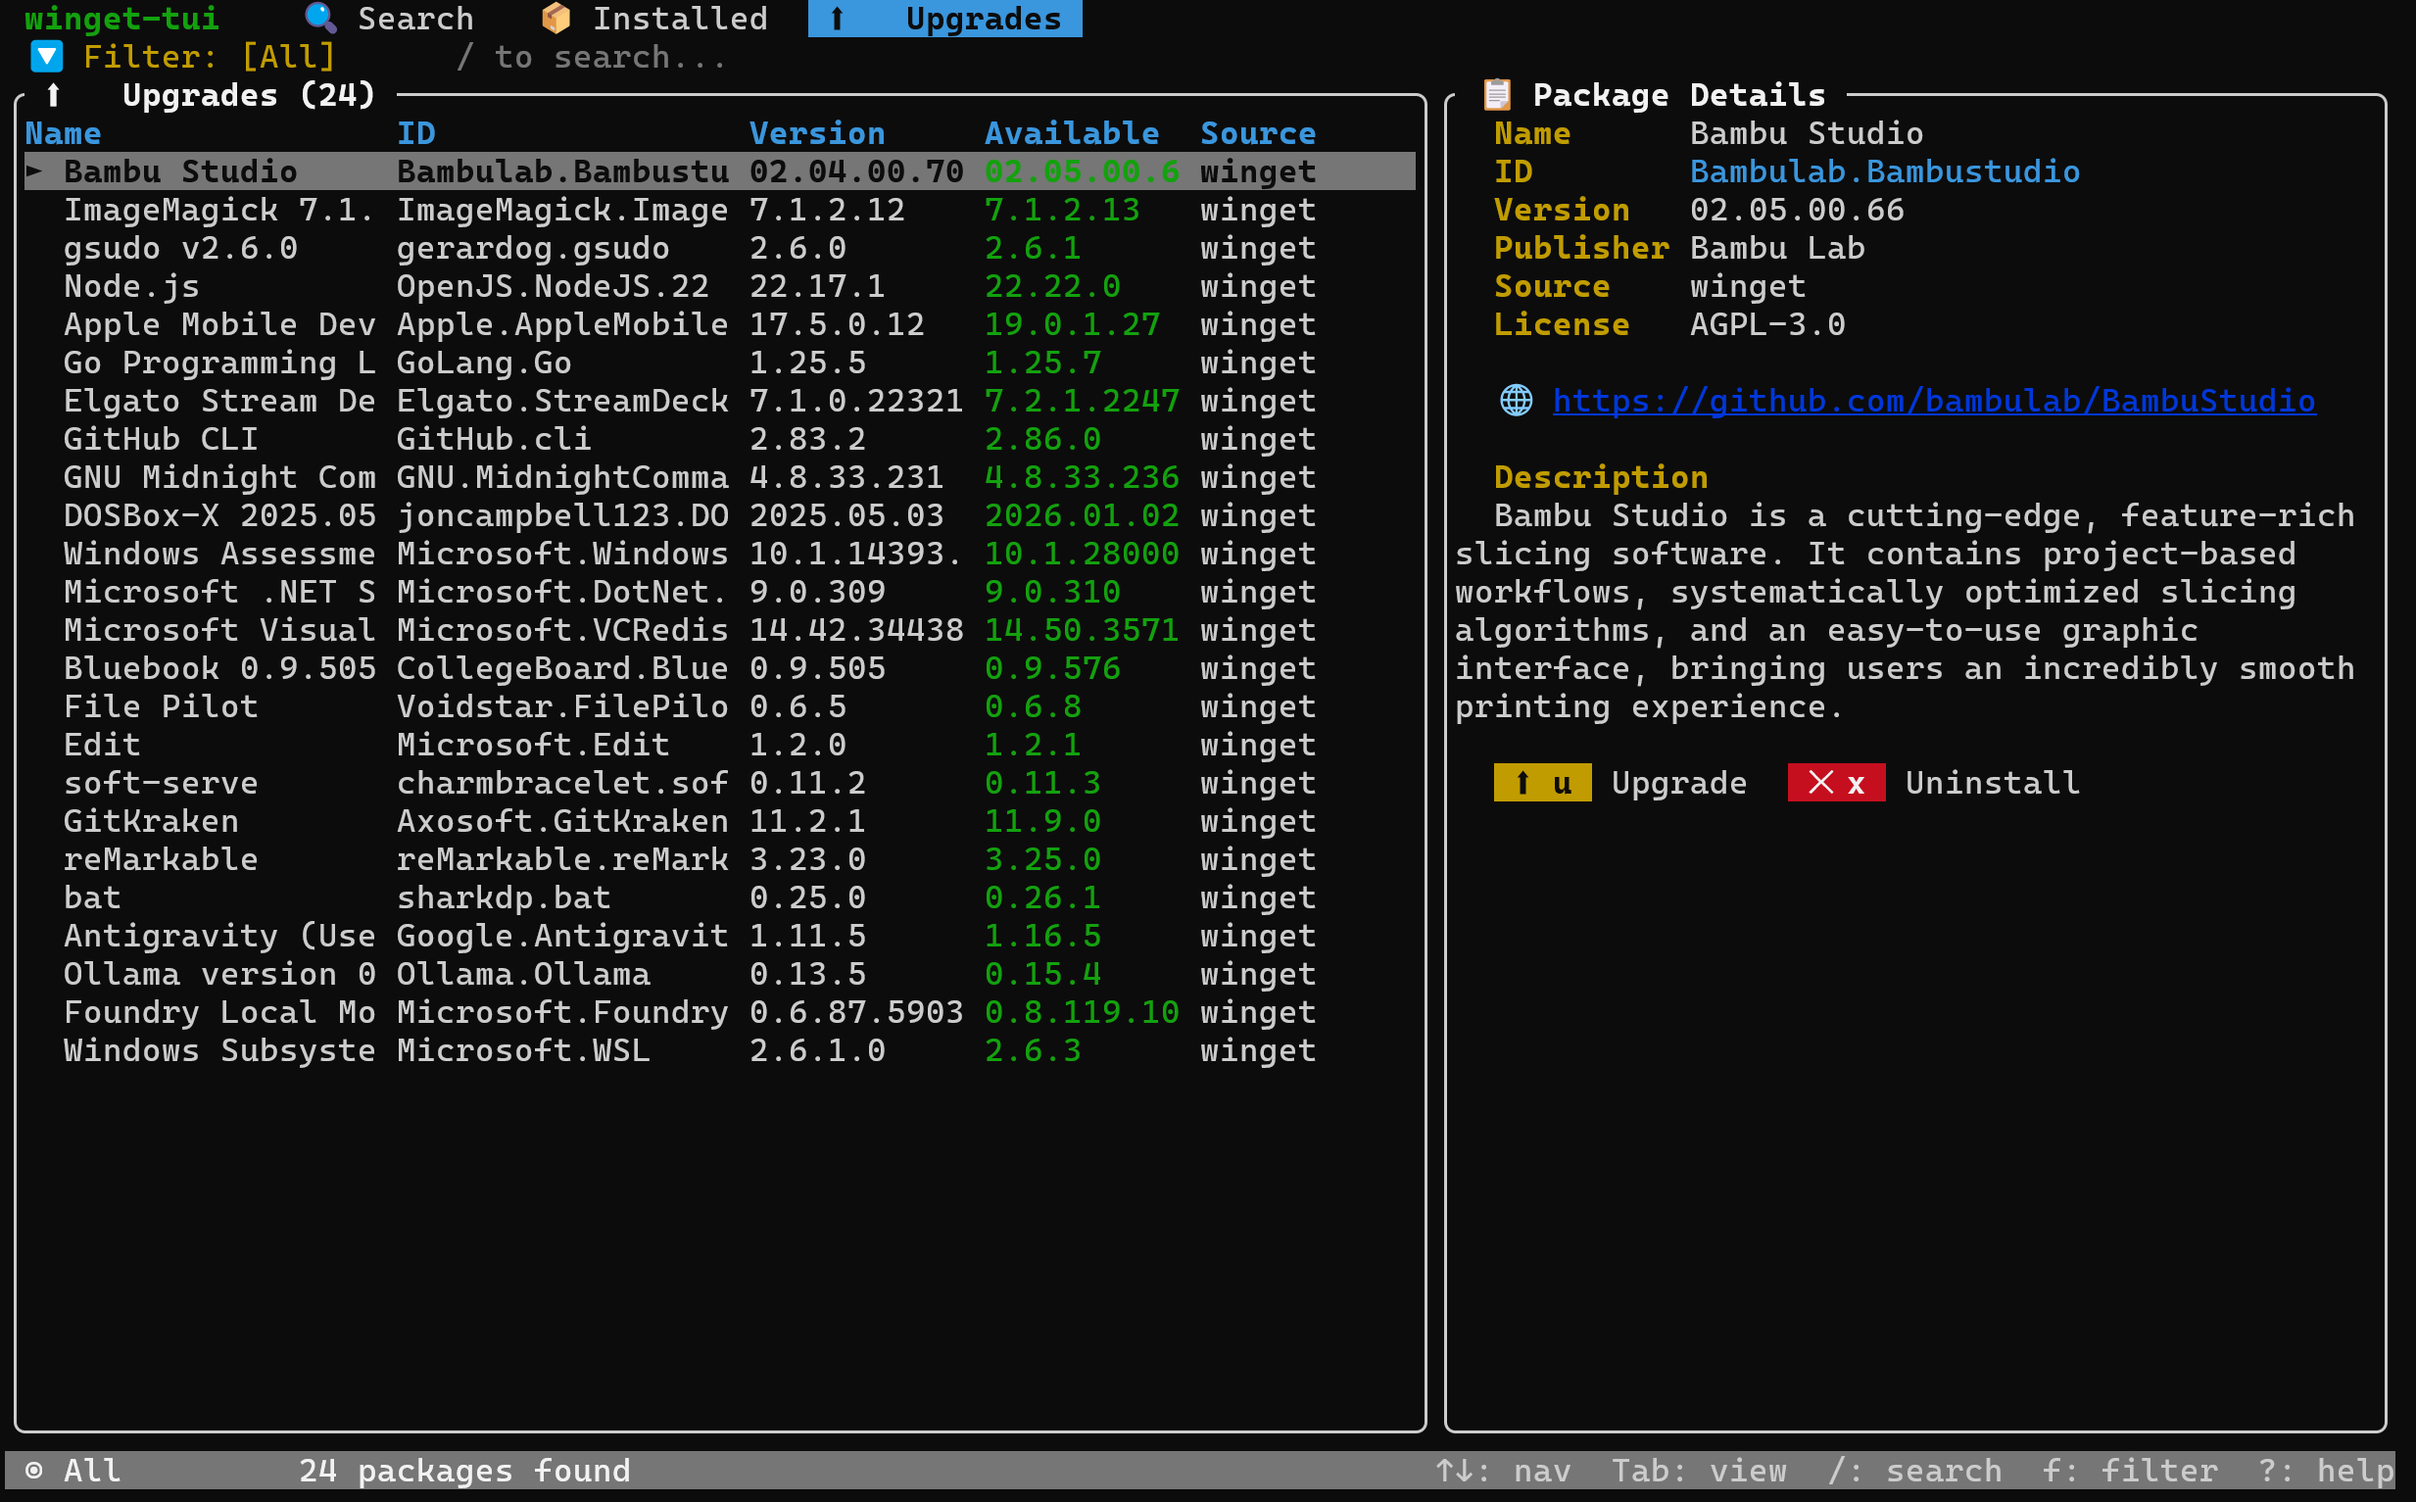
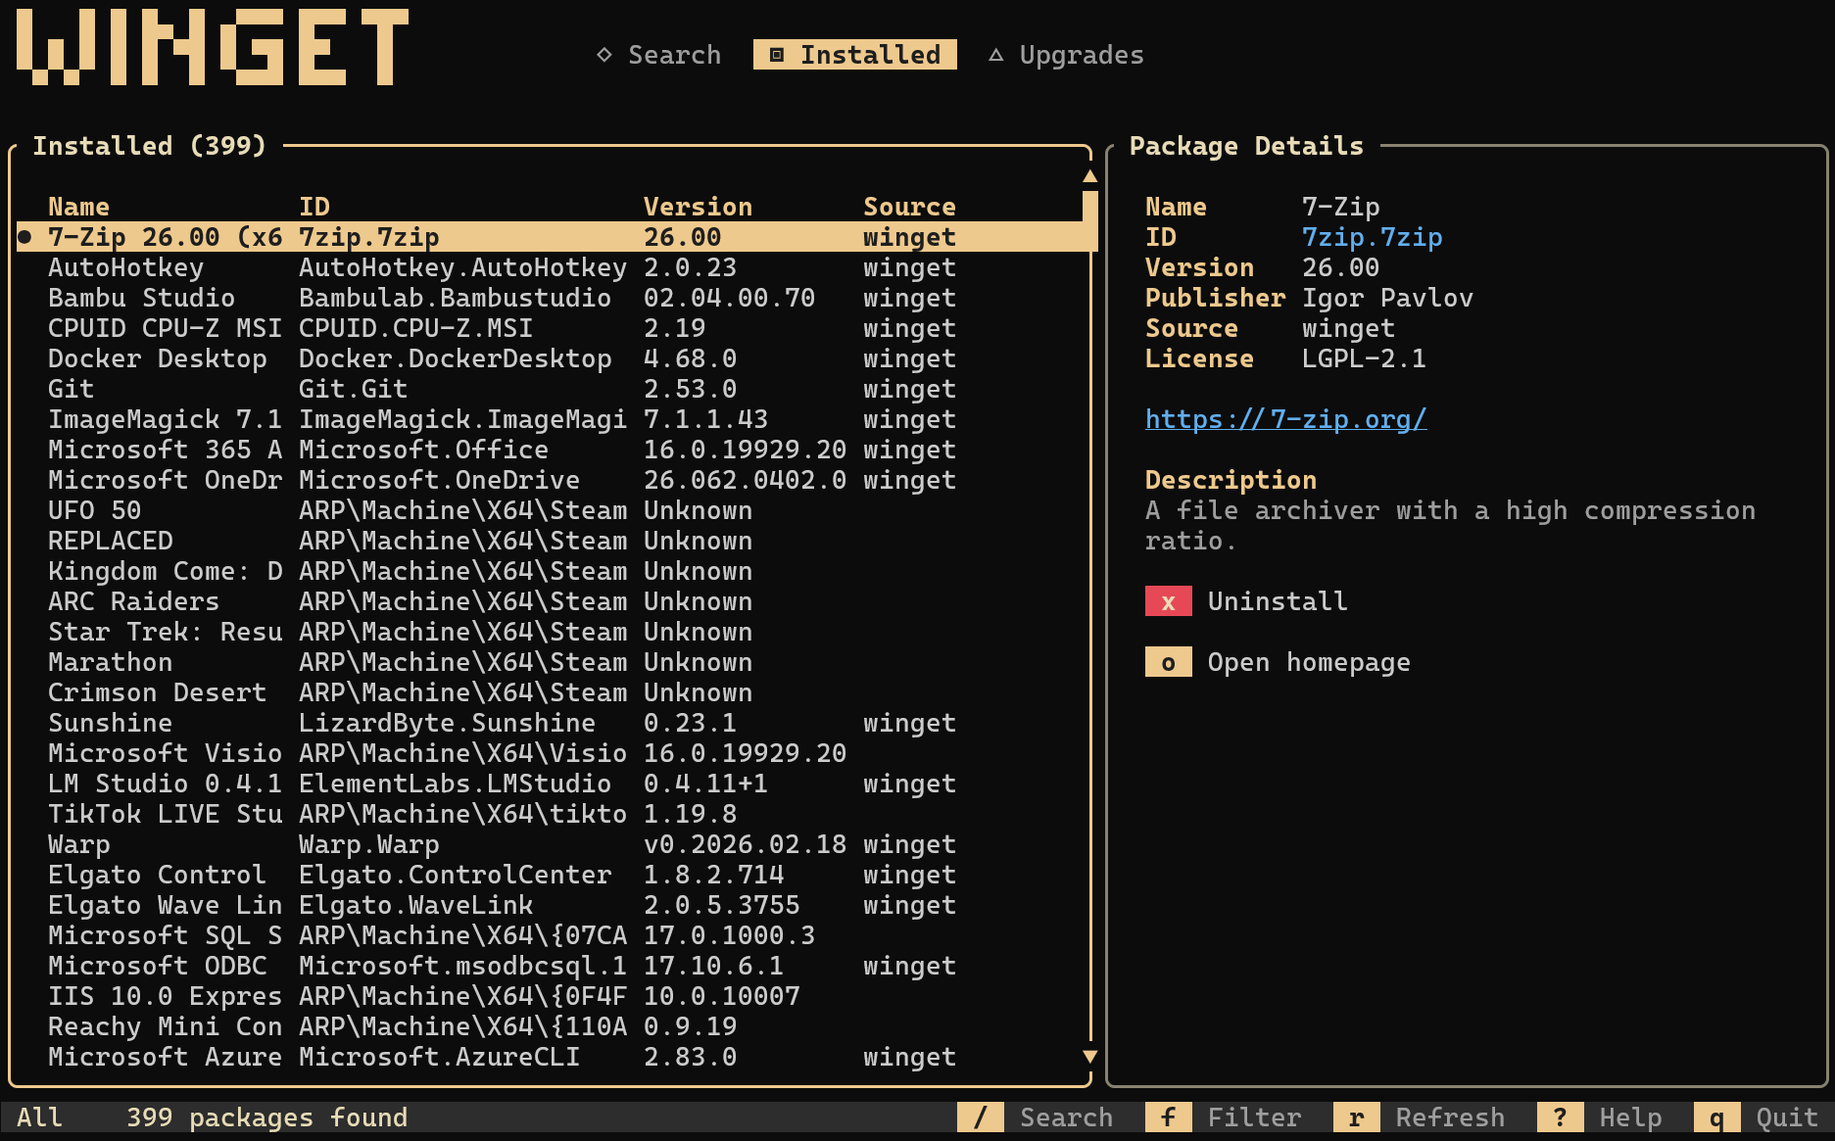
release: prepare v0.5.0
- bump version to 0.5.0\n- add README credit for @niels9001\n- include updated screenshot for the new UX design\n\nCo-authored-by: Copilot <223556219+Copilot@users.noreply.github.com>

diff --git a/README.md b/README.md
@@ -1,5 +1,7 @@
 # winget-tui
 
+**New design and visual research by [@niels9001](https://github.com/niels9001).**
+
 A terminal user interface for [Windows Package Manager (winget)](https://github.com/microsoft/winget-cli). Search, install, uninstall, and upgrade Windows packages without leaving your terminal.
 
 ![Rust](https://img.shields.io/badge/Rust-000000?style=flat&logo=rust&logoColor=white)
